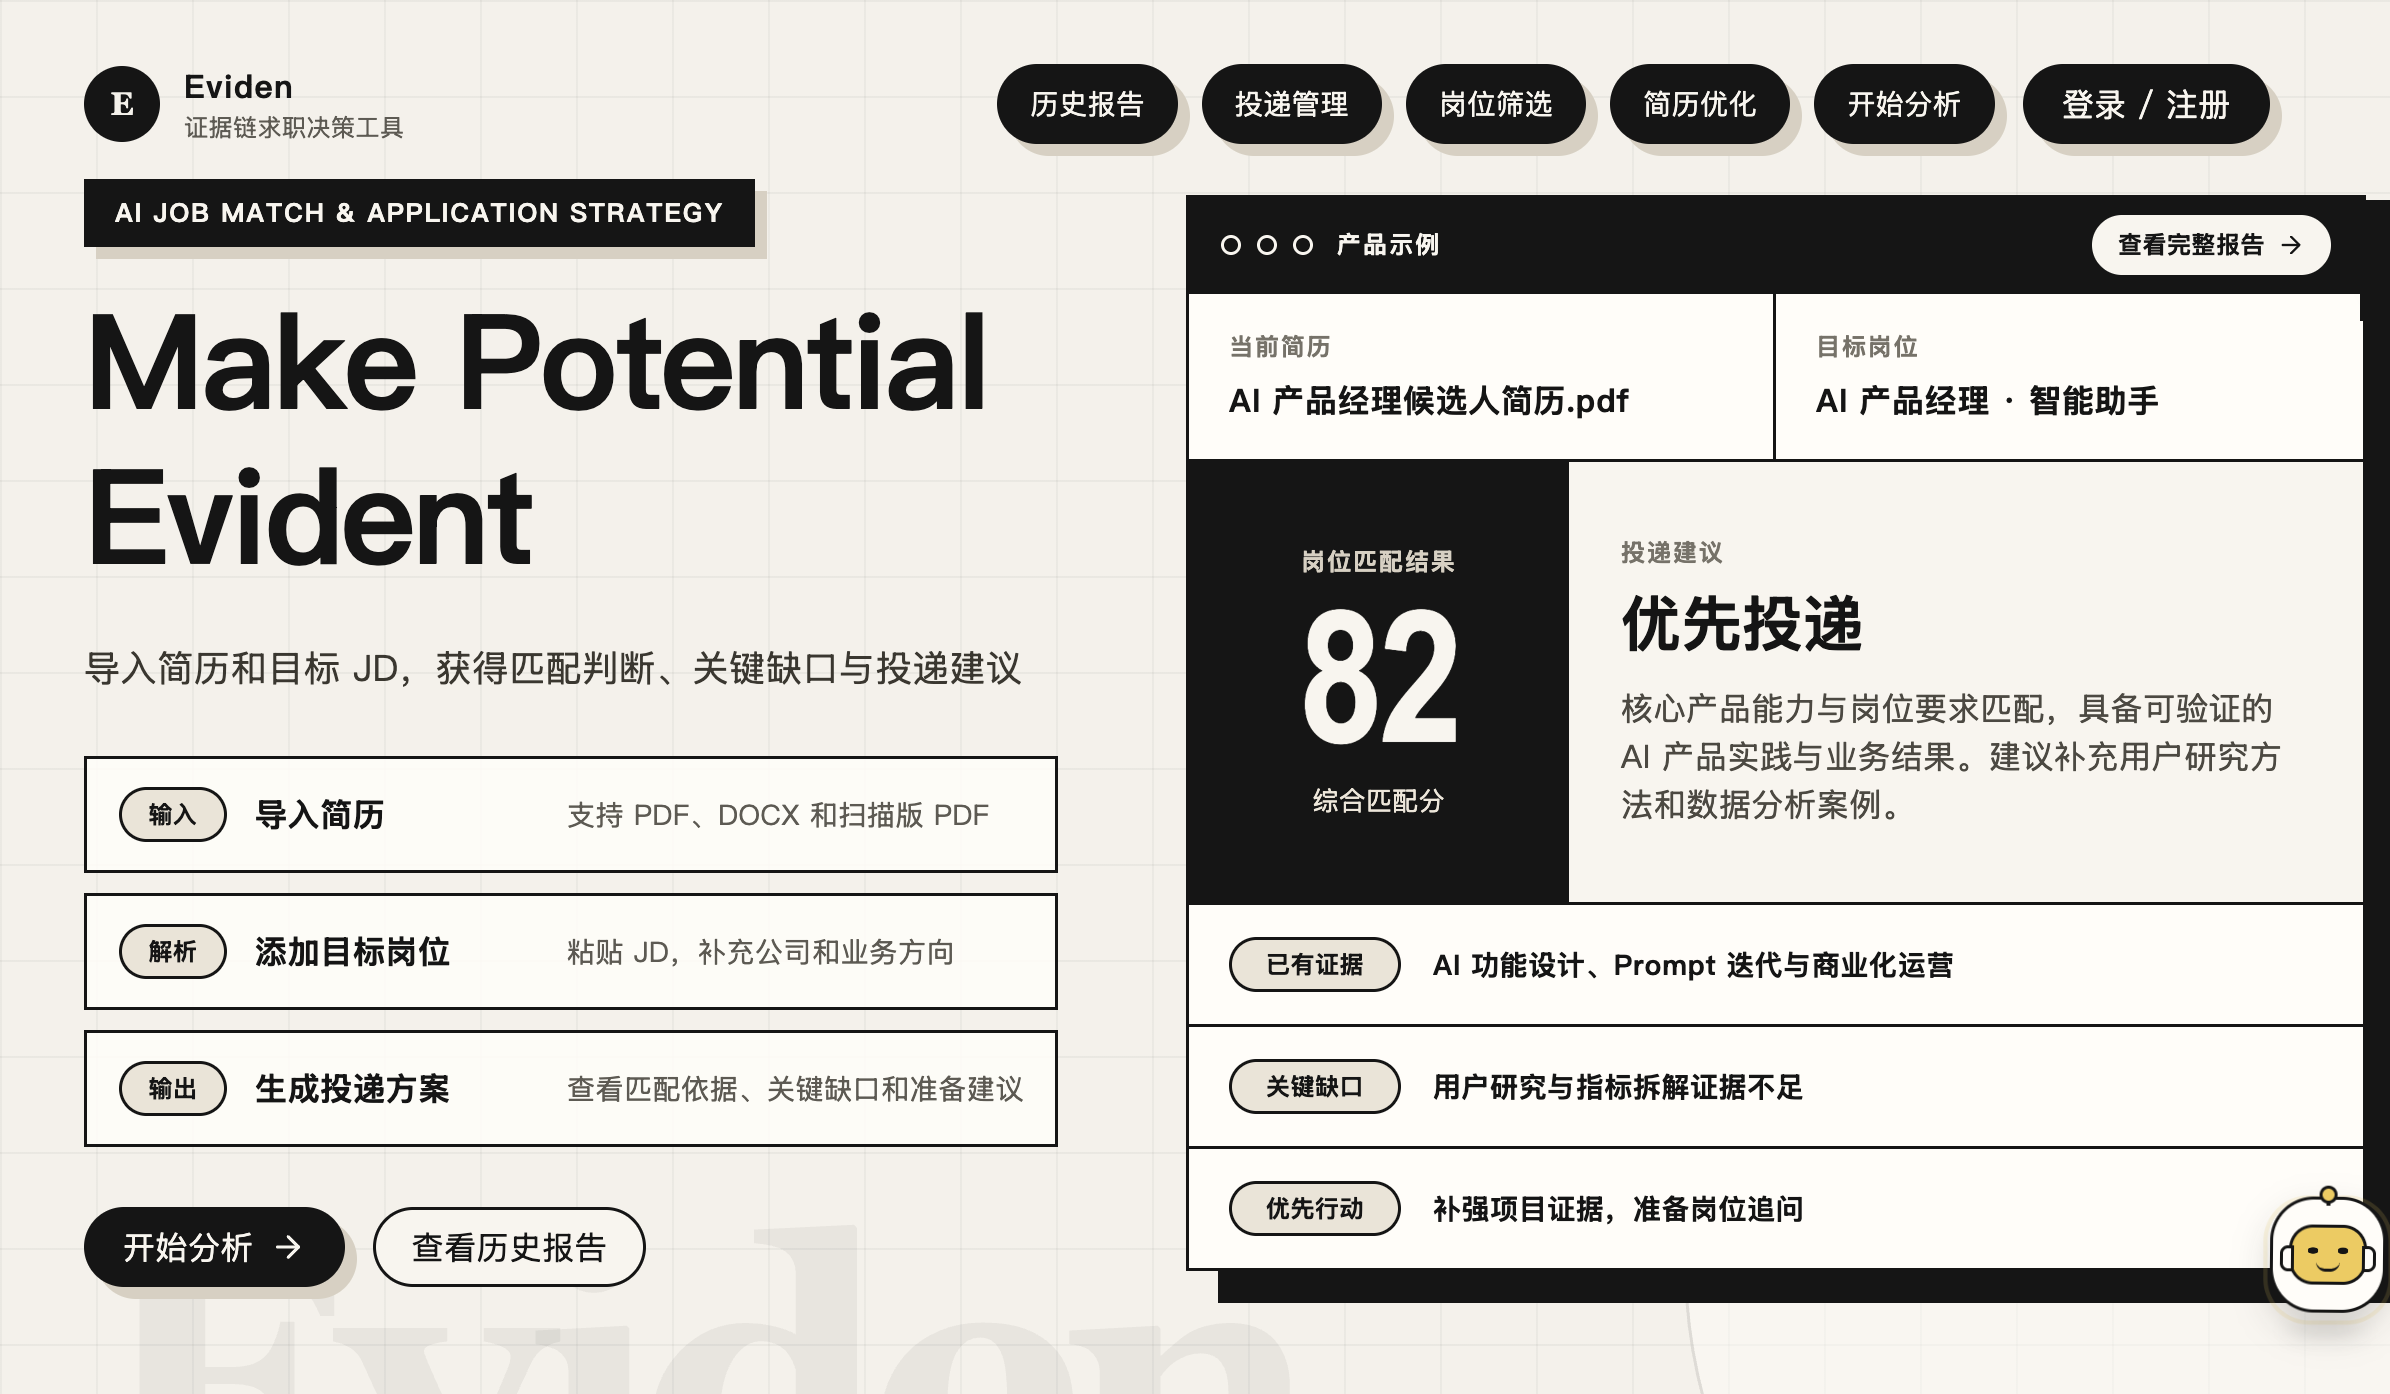
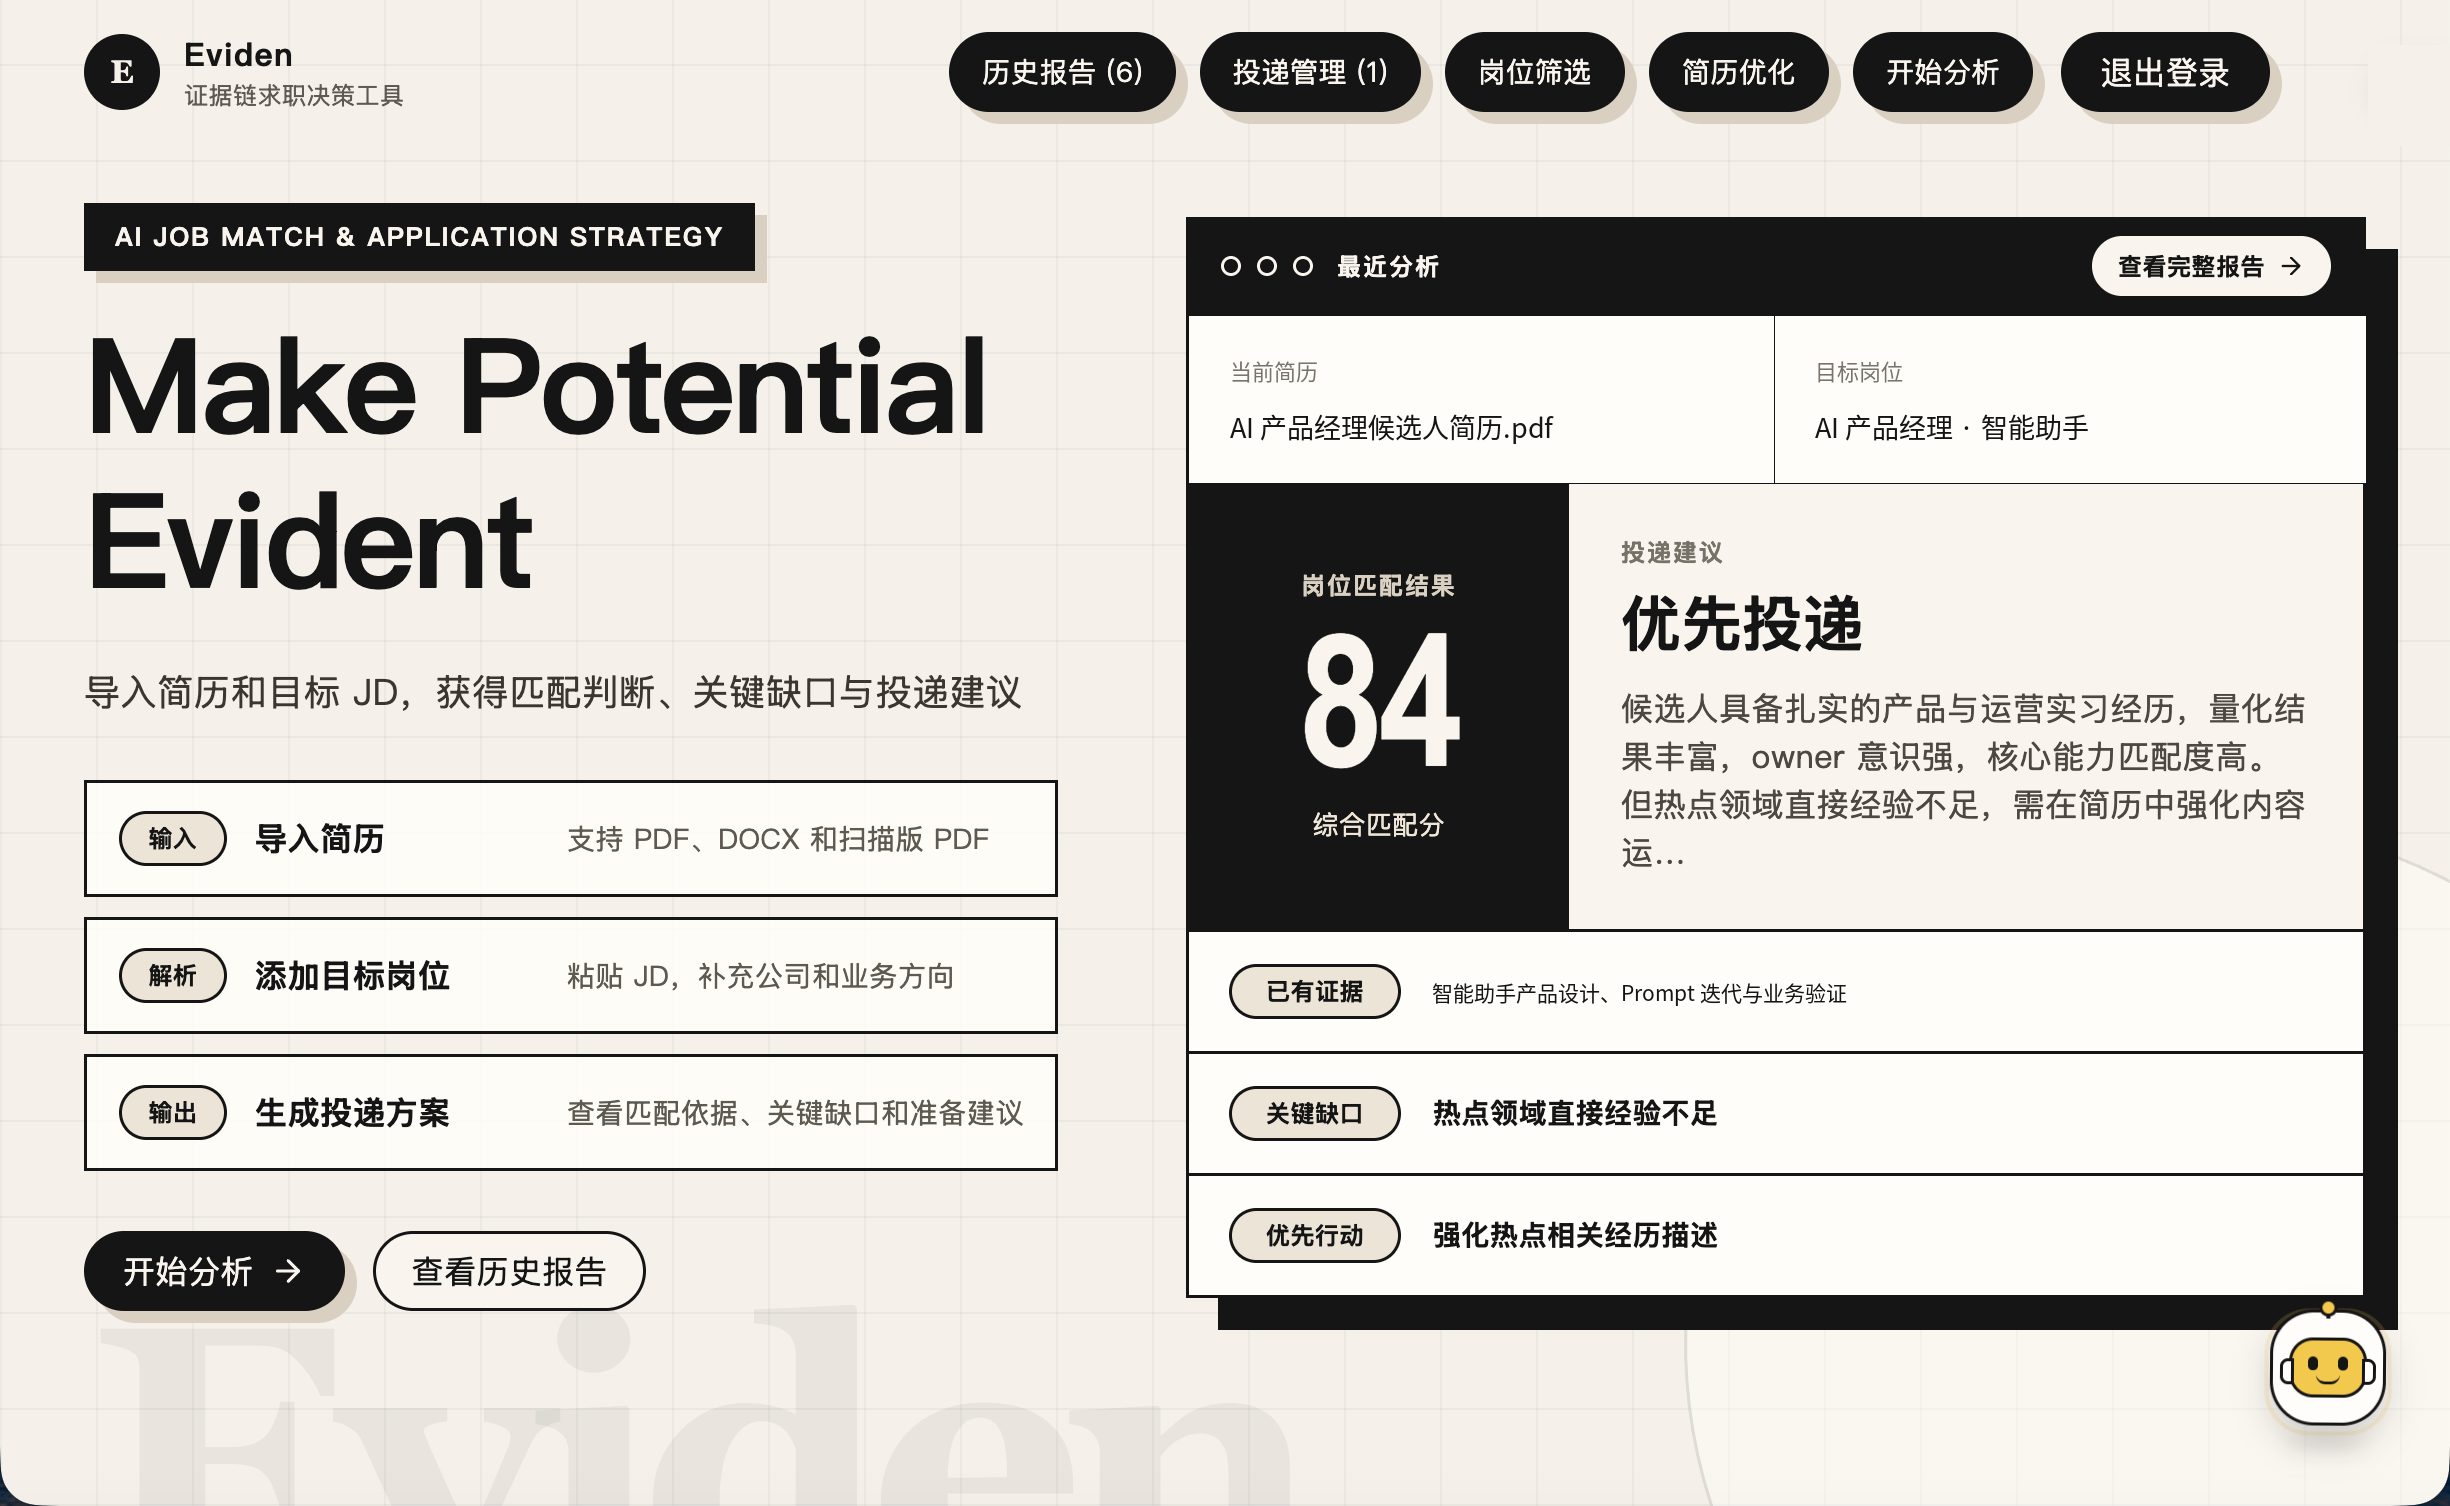
完善 README 产品截图展示

diff --git a/README.md b/README.md
@@ -10,9 +10,17 @@ https://a8223b45ac7d.aime-site.bytedance.net
 
 ## 产品预览
 
+### 从岗位匹配到投递决策
+
 ![Eviden 产品总览](docs/assets/eviden-overview.png)
 
-> 示例内容为脱敏演示数据，用于展示岗位分析与投递决策工作流。
+| Evi 智能求职助手 | 岗位筛选 |
+| --- | --- |
+| ![Evi 智能求职助手](docs/assets/evi-assistant.png) | ![岗位筛选](docs/assets/job-screening.png) |
+| **历史报告与岗位对比** | **投递管理工作台** |
+| ![历史报告与岗位对比](docs/assets/history-reports.png) | ![投递管理工作台](docs/assets/application-pipeline.png) |
+
+> 截图中的简历名称、岗位、公司和跟进信息均已替换为脱敏演示数据。
 
 ## 当前版本
 
